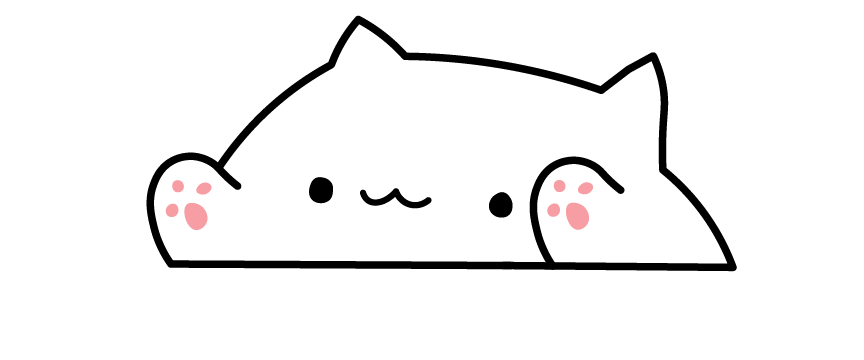
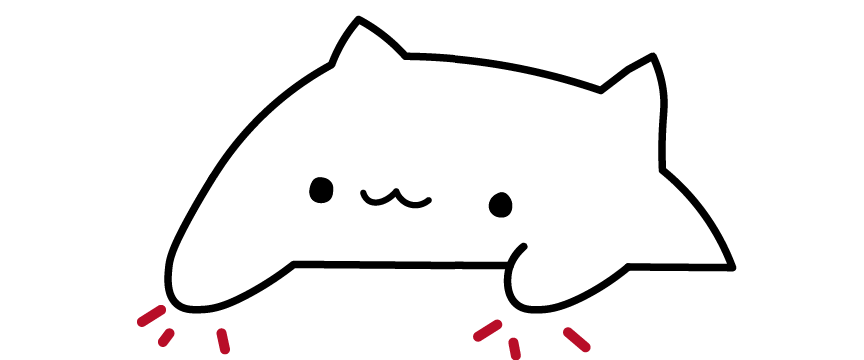
feat: both paws can go down & releaseing doesn't change other paw

diff --git a/CDotDecoration.cpp b/CDotDecoration.cpp
@@ -18,11 +18,11 @@ CDotDecoration::CDotDecoration(PHLWINDOW pWindow)
     : IHyprWindowDecoration(pWindow) {
   m_pWindow = pWindow;
 
-  if (g_pTextures["both.png"]) {
-    m_pTexture = g_pTextures["both.png"];
+  if (g_pTextures["none.png"]) {
+    m_pTexture = g_pTextures["none.png"];
     m_pKeypressCallback = Event::bus()->m_events.input.keyboard.key.listen(
         [this](const IKeyboard::SKeyEvent& e, Event::SCallbackInfo& info) {
-            onKeypress(info, e);
+            onKeypress(e);
         });
   } else if (g_pTexture) {
     m_pTexture = g_pTexture;
@@ -31,15 +31,11 @@ CDotDecoration::CDotDecoration(PHLWINDOW pWindow)
   const auto PMONITOR = pWindow->m_monitor.lock();
 }
 
-void CDotDecoration::onKeypress(Event::SCallbackInfo& info, const IKeyboard::SKeyEvent& event) {
+void CDotDecoration::onKeypress(const IKeyboard::SKeyEvent& event) {
   auto const hand = getHandForKeyEvent(event);
 
   std::string textureName;
-  if (event.state == WL_KEYBOARD_KEY_STATE_PRESSED) {
-    textureName = hand;
-  } else {
-    textureName = "both.png";
-  }
+  textureName = hand;
 
   const auto PMONITOR = m_pWindow->m_monitor.lock();
   damageEntire();
@@ -68,12 +64,30 @@ std::string CDotDecoration::getHandForKeyEvent(IKeyboard::SKeyEvent event) {
                                               KEY_LEFTALT, KEY_LEFTMETA};
 
   // Check if keycode is for a left hand key
+  int delta = (event.state == WL_KEYBOARD_KEY_STATE_PRESSED) ? 1 : -1; // Key down +1, key down -1
   if (std::find(leftHandKeys.begin(), leftHandKeys.end(), keycode) !=
       leftHandKeys.end()) {
-    return "left.png"; // Left hand
+    m_hands.left += delta; // Left hand
   } else {
-    return "right.png"; // Everything else is right hand?
+    m_hands.right += delta; // Everything else is (probably) right hand
   }
+
+  // Counteract keys being held during init
+  if (m_hands.left < 0) m_hands.left = 0;
+  if (m_hands.right < 0) m_hands.right = 0;
+
+  // Determine which sides are currently being pressed
+  if (m_hands.left) {
+    if(m_hands.right) {
+      return "both.png";
+    }
+    return "left.png";
+  }
+  if (m_hands.right) {
+    return "right.png";
+  }
+  return "none.png";
+  
 }
 
 CDotDecoration::~CDotDecoration() { damageEntire(); }

diff --git a/main.cpp b/main.cpp
@@ -186,14 +186,14 @@ APICALL EXPORT PLUGIN_DESCRIPTION_INFO PLUGIN_INIT(HANDLE handle) {
   }
 
   // config variables
-  vars.size     = makeShared<Config::Values::CVec2Value>("plugin:hypr-bongocat:size",     "Size of dot", Config::VEC2{20, 20});
-  vars.pos      = makeShared<Config::Values::CVec2Value>("plugin:hypr-bongocat:pos",      "Position offset", Config::VEC2{10, 10});
-  vars.origin   = makeShared<Config::Values::CVec2Value>("plugin:hypr-bongocat:origin",   "Origin (0: left/top, 1: middle, 2: down/right)", Config::VEC2{0, 0});
-  vars.color    = makeShared<Config::Values::CColorValue>("plugin:hypr-bongocat:color",   "Colour of dot", 0x8833ff11); // rgba(11ff3388)
-  vars.rounding = makeShared<Config::Values::CFloatValue>("plugin:hypr-bongocat:rounding","Rounding of dot", 4.0f);
-  vars.exclude  = makeShared<Config::Values::CStringValue>("plugin:hypr-bongocat:exclude","Excluded windows", "");
-  vars.img      = makeShared<Config::Values::CStringValue>("plugin:hypr-bongocat:img",    "Image path"," none");
-  vars.imgs     = makeShared<Config::Values::CStringValue>("plugin:hypr-bongocat:imgs",   "Image path", "none");
+  vars.size     = makeShared<Config::Values::CVec2Value>("plugin:hypr_bongocat:size",     "Size of dot", Config::VEC2{20, 20});
+  vars.pos      = makeShared<Config::Values::CVec2Value>("plugin:hypr_bongocat:pos",      "Position offset", Config::VEC2{10, 10});
+  vars.origin   = makeShared<Config::Values::CVec2Value>("plugin:hypr_bongocat:origin",   "Origin (0: left/top, 1: middle, 2: down/right)", Config::VEC2{0, 0});
+  vars.color    = makeShared<Config::Values::CColorValue>("plugin:hypr_bongocat:color",   "Colour of dot", 0x8833ff11); // rgba(11ff3388)
+  vars.rounding = makeShared<Config::Values::CFloatValue>("plugin:hypr_bongocat:rounding","Rounding of dot", 4.0f);
+  vars.exclude  = makeShared<Config::Values::CStringValue>("plugin:hypr_bongocat:exclude","Excluded windows", "");
+  vars.img      = makeShared<Config::Values::CStringValue>("plugin:hypr_bongocat:img",    "Image path"," none");
+  vars.imgs     = makeShared<Config::Values::CStringValue>("plugin:hypr_bongocat:imgs",   "Image path", "none");
 
   HyprlandAPI::addConfigValueV2(PHANDLE, vars.size);
   HyprlandAPI::addConfigValueV2(PHANDLE, vars.pos);

diff --git a/CDotDecoration.hpp b/CDotDecoration.hpp
@@ -20,11 +20,15 @@ public:
   virtual CBox getSquareBox();
   virtual void onPositioningReply(const SDecorationPositioningReply &reply);
   PHLWINDOW getOwner();
-  virtual void onKeypress(Event::SCallbackInfo& info, const IKeyboard::SKeyEvent& event);
+  virtual void onKeypress(const IKeyboard::SKeyEvent& event);
   virtual std::string getHandForKeyEvent(IKeyboard::SKeyEvent event);
 
 private:
   CHyprSignalListener m_pKeypressCallback;
   PHLWINDOWREF m_pWindow;
   SP<Render::ITexture> m_pTexture;
+  struct {
+    int32_t left = 0;
+    int32_t right = 0;
+  } m_hands;
 };